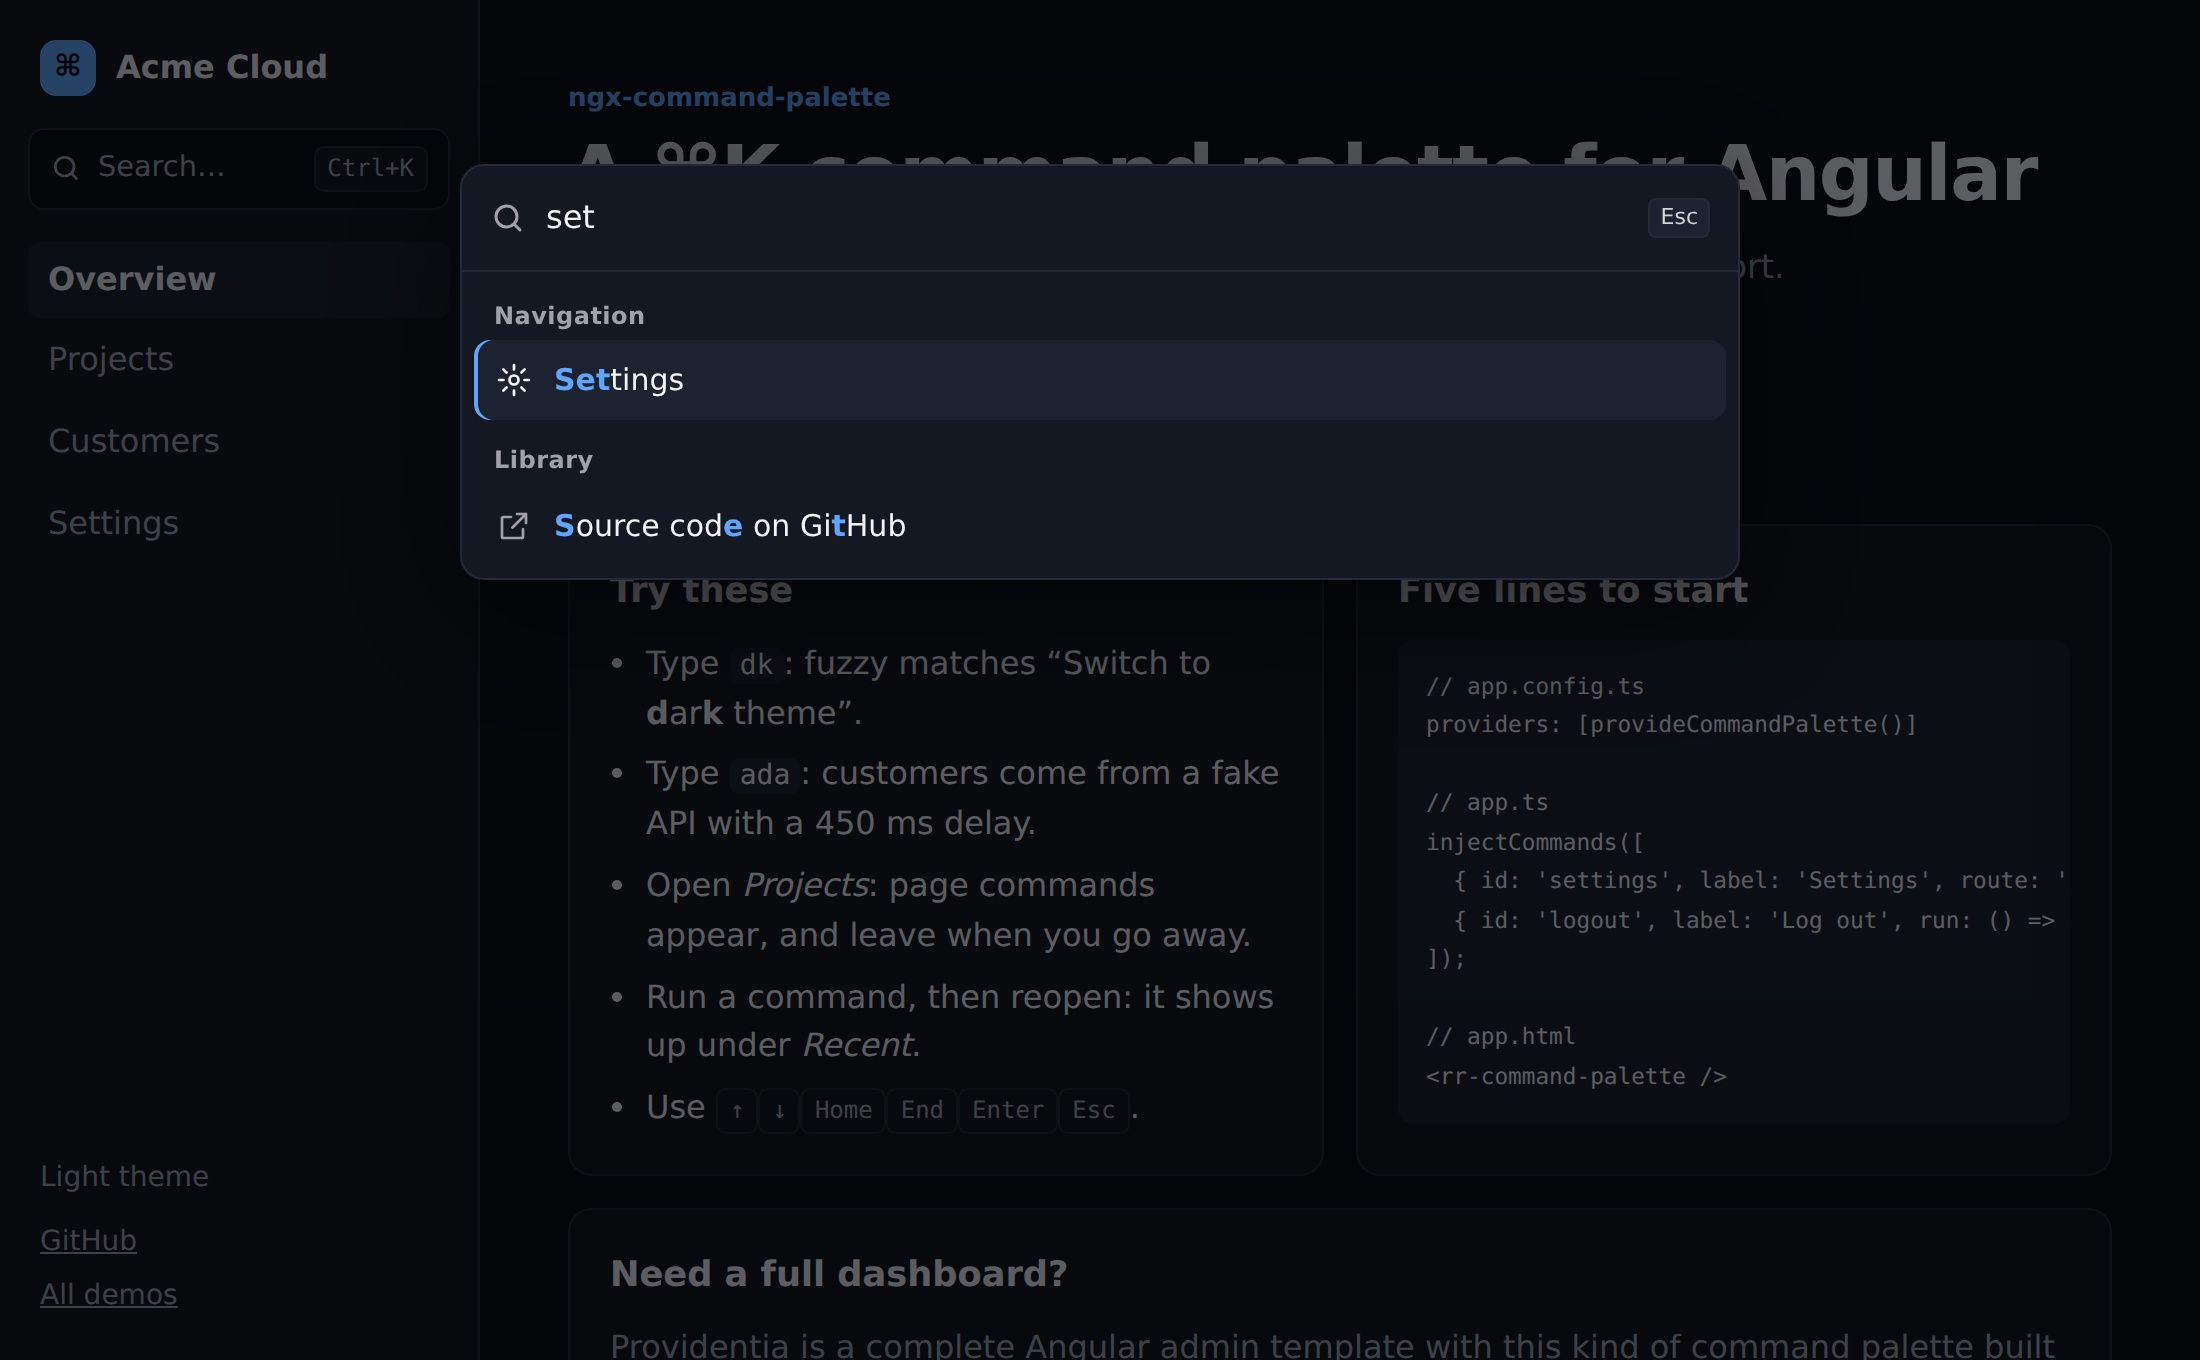
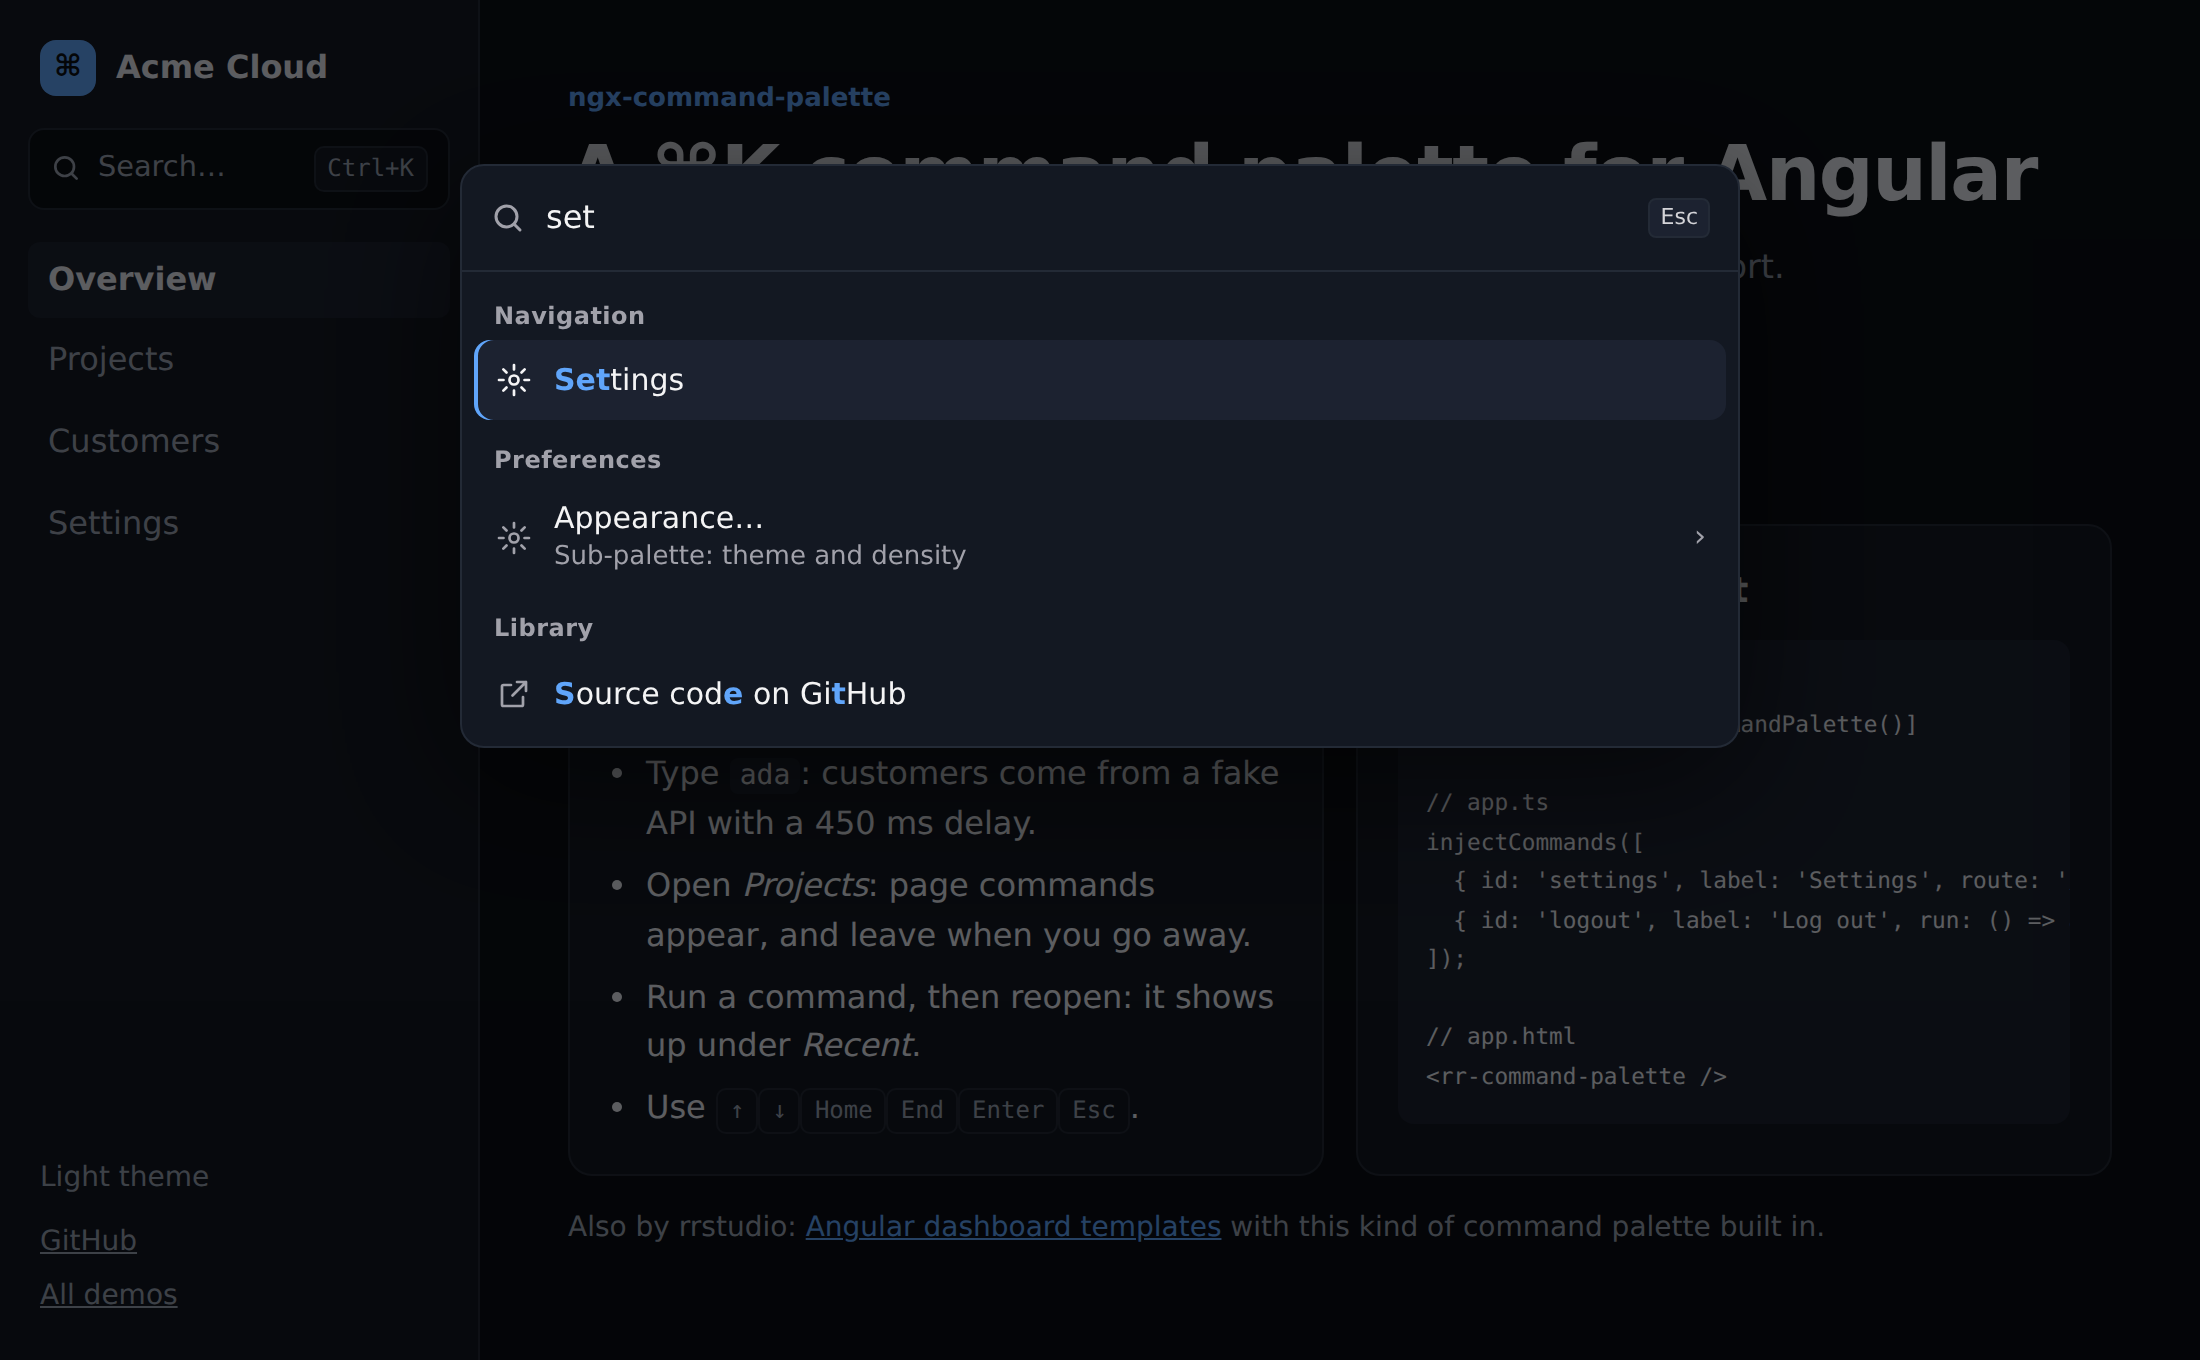
Refresh the screenshots and demo GIF, and shorten the closing section of the README

diff --git a/projects/demo/src/app/pages/overview.ts b/projects/demo/src/app/pages/overview.ts
@@ -50,16 +50,10 @@ import { LINKS } from '../shared/data';
       </article>
     </section>
 
-    <section class="card promo" aria-label="Providentia">
-      <div>
-        <h2>Need a full dashboard?</h2>
-        <p>
-          Providentia is a complete Angular admin template with this kind of command palette built
-          in.
-        </p>
-      </div>
-      <a class="button" [href]="links.providentia">See Providentia →</a>
-    </section>
+    <p class="more">
+      Also by rrstudio: <a [href]="links.demos">Angular dashboard templates</a> with this kind of
+      command palette built in.
+    </p>
   `,
 })
 export default class Overview {

diff --git a/projects/demo/src/styles.css b/projects/demo/src/styles.css
@@ -212,17 +212,10 @@ button.ghost {
   margin-top: 6px;
 }
 
-.promo {
-  display: flex;
-  flex-wrap: wrap;
-  align-items: center;
-  justify-content: space-between;
-  gap: 16px;
-}
-
-.promo p {
+.more {
   margin: 0;
   color: var(--muted);
+  font-size: 0.875rem;
 }
 
 .list {

diff --git a/README.md b/README.md
@@ -10,7 +10,7 @@ standalone components, signals, zoneless-ready and **no dependencies besides Ang
 
 **[Live demo →](https://demo.rr-dev.eu/command-palette/)**
 
-![ngx-command-palette demo: fuzzy search, theme switch and async customer search](https://raw.githubusercontent.com/rrstudioapps/ngx-command-palette/main/docs/demo.gif)
+![ngx-command-palette demo: fuzzy search, sub-palettes, theme switch and async customer search](https://raw.githubusercontent.com/rrstudioapps/ngx-command-palette/main/docs/demo.gif)
 
 ## Features
 
@@ -353,10 +353,7 @@ See [CONTRIBUTING.md](CONTRIBUTING.md).
 
 [MIT](LICENSE) © 2026 rrstudio
 
-## Need a full dashboard? Check out Providentia
+## Also by rrstudio
 
-**Providentia** is a complete Angular admin dashboard template by the same author: analytics,
-customer tables, report builder, billing, roles, light and dark themes, and a command palette
-built in.
-
-**[See the Providentia live demo →](https://demo.rr-dev.eu/providentia/overview)**
+Looking for a complete Angular admin dashboard? See the live demos of the
+[dashboard templates](https://demo.rr-dev.eu/) by the same author, with this kind of command palette built in.
